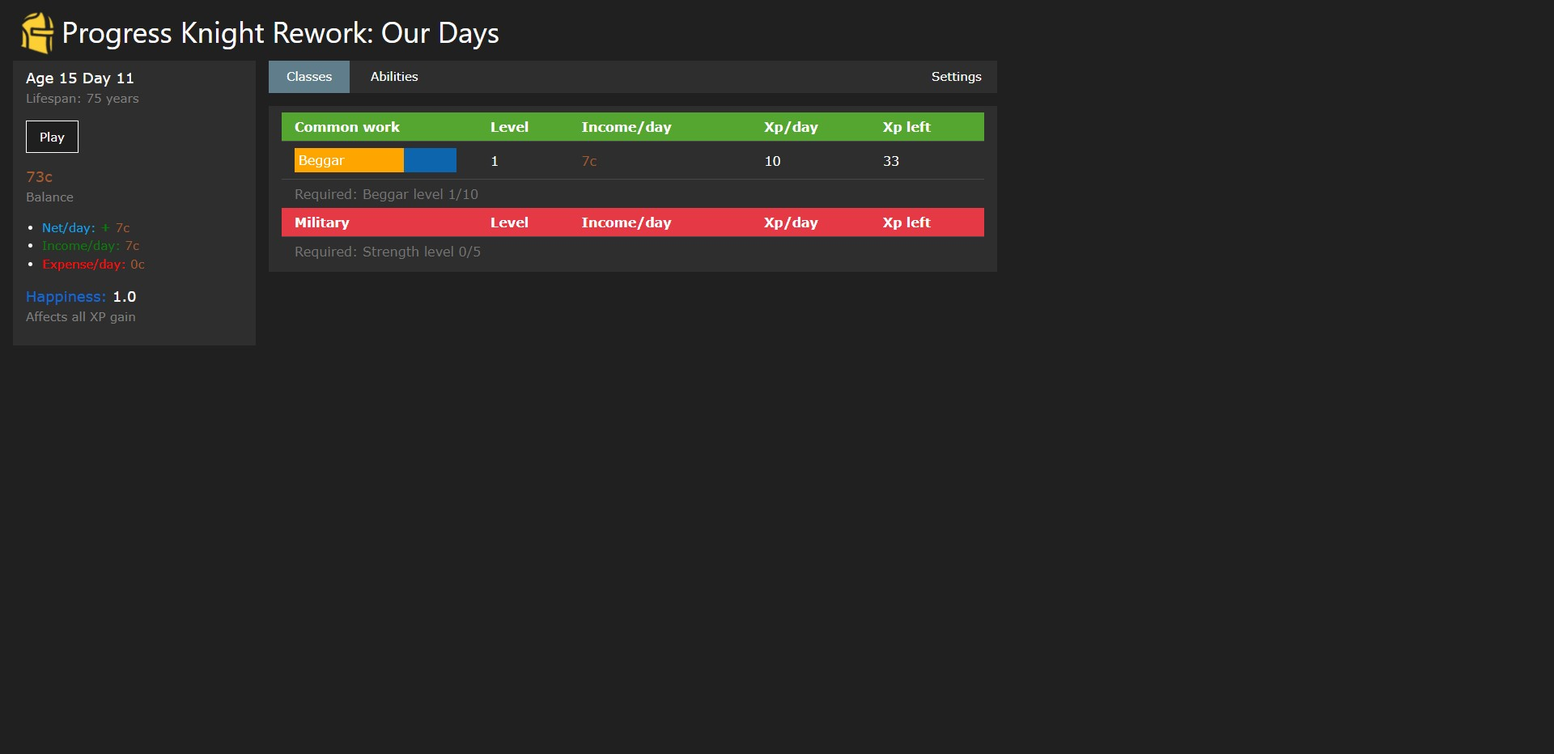
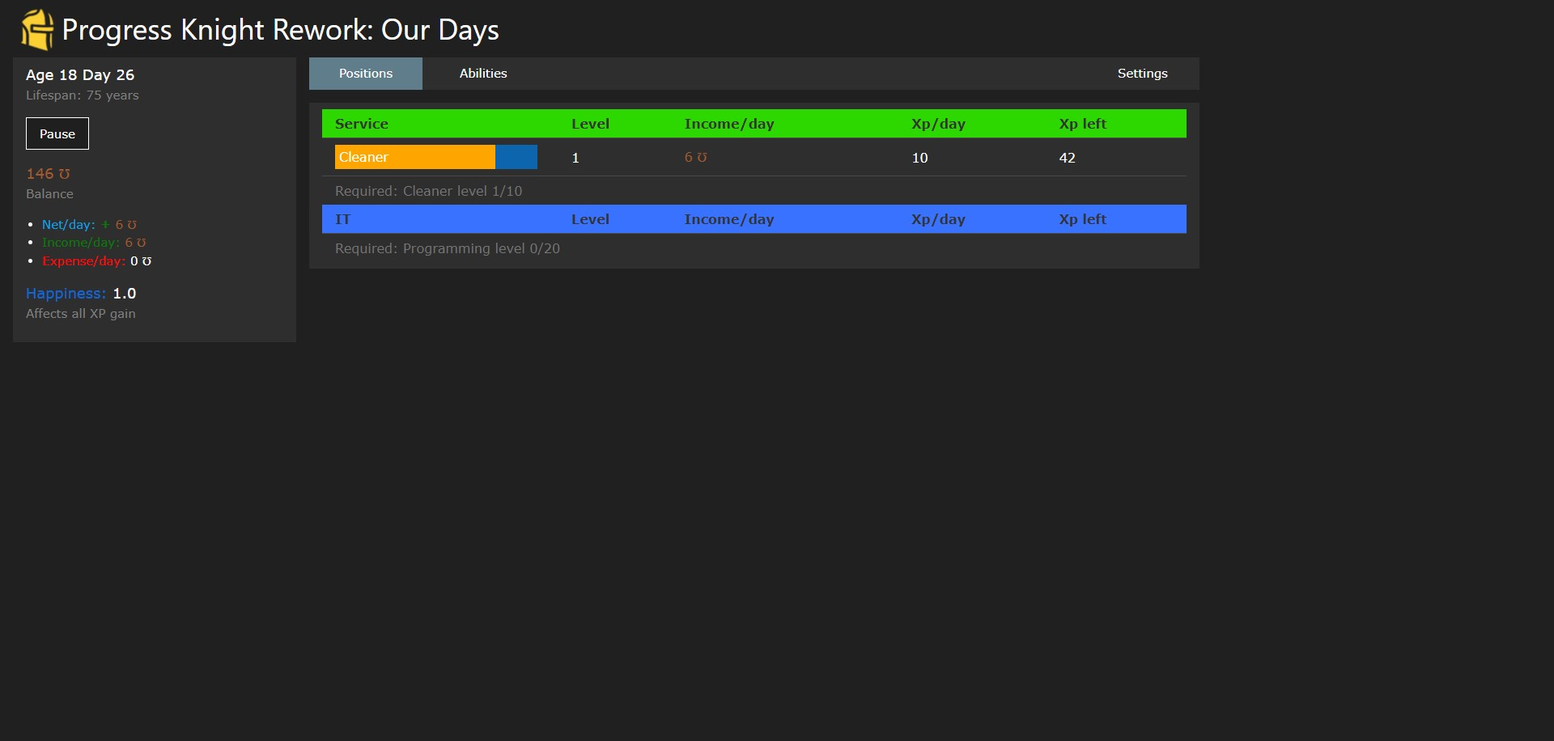
Баланс и контент

diff --git a/progress_knight_project/js/main.js b/progress_knight_project/js/main.js
@@ -45,17 +45,17 @@ const jobBaseData = {
   "Sales intern": {name: "Sales intern", maxXp: 400, income: 17},
   "Experienced salesman": {name: "Experienced salesman", maxXp: 800, income: 33},
   "Manager": {name: "Manager", maxXp: 1600, income: 65},
-  "Chief manager": {name: "Chief manager", maxXp: 3200, income: 65},
-  "Store headmaster": {name: "Store headmaster", maxXp: 6400, income: 129},
+  "Chief manager": {name: "Chief manager", maxXp: 3200, income: 129},
+  "Store headmaster": {name: "Store headmaster", maxXp: 6400, income: 257},
 
   "Junior": {name: "Junior", maxXp: 500, income: 20},
-  "Middle": {name: "Middle", maxXp: 5000, income: 100},
-  "Middle+": {name: "Middle+", maxXp: 50000, income: 500},
-  "Senior": {name: "Senior", maxXp: 500000, income: 2500},
-  "IT supervisor": {name: "IT supervisor", maxXp: 5000000, income: 12500},
-  "Technical Director": {name: "Technical Director", maxXp: 50000000, income: 62500},
-  "Head of an IT conglomerate": {name: "Head of an IT conglomerate", maxXp: 500000000, income: 312500},
-  "World class guru": {name: "World class guru", maxXp: 5000000000, income: 1562500},
+  "Middle": {name: "Middle", maxXp: 5000, income: 60},
+  "Middle+": {name: "Middle+", maxXp: 50000, income: 180},
+  "Senior": {name: "Senior", maxXp: 500000, income: 540},
+  "IT supervisor": {name: "IT supervisor", maxXp: 5000000, income: 1620},
+  "Technical Director": {name: "Technical Director", maxXp: 50000000, income: 4860},
+  "Head of an IT conglomerate": {name: "Head of an IT conglomerate", maxXp: 500000000, income: 14580},
+  "World class guru": {name: "World class guru", maxXp: 5000000000, income: 43740},
 
   "Student": {name: "Student", maxXp: 100000, income: 100},
   "Scientist naturalist": {name: "Scientist naturalist", maxXp: 1000000, income: 1000},
@@ -69,17 +69,18 @@ const jobBaseData = {
 
 const skillBaseData = {
   "Perception": {name: "Perception", maxXp: 100, effect: 0.01, description: "Abilities XP"},
-  "Endurance": {name: "Endurance", maxXp: 100, effect: 0.01, description: "Positions XP"},
+  "Endurance": {name: "Endurance", maxXp: 100, effect: 0.015, description: "Positions XP"},
   "Stealth": {name: "Stealth", maxXp: 100, effect: -0.01, description: "Reduced expenses"},
+  "Aptitude": {name: "Aptitude", maxXp: 100, effect: 0.01, description: "Positions XP"},
   "Hardening": {name: "Hardening", maxXp: 100, effect: 0.01, description: "Lifespan"},
 
   "Programming": {name: "Programming", maxXp: 100, effect: 0.01, description: "IT payment"},
-  "Attentiveness": {name: "Attentiveness", maxXp: 100, effect: 0.01, description: "IT XP"},
-  "Lang understanding": {name: "Lang understanding", maxXp: 100, effect: 0.01, description: "Programming XP"},
+  "Attentiveness": {name: "Attentiveness", maxXp: 100, effect: 0.02, description: "IT XP"},
+  "Lang understanding": {name: "Lang understanding", maxXp: 100, effect: 0.015, description: "Programming XP"},
   "Luckiness": {name: "Luckiness", maxXp: 100, effect: 0.01, description: "Happiness"},
   "Waiting skill": {name: "Waiting skill", maxXp: 100, effect: 0.01, description: "Gamespeed"},
+  "Interest in knowledge": {name: "Interest in knowledge", maxXp: 100, effect: 0.02, description: "Science XP"},
 
-  "Interest in knowledge": {name: "Interest in knowledge", maxXp: 100, effect: 0.01, description: "Science XP"},
   "Time acceleration": {name: "Time acceleration", maxXp: 100, effect: 0.01, description: "Gamespeed"},
   "Reversal of aging": {name: "Reversal of aging", maxXp: 100, effect: 0.01, description: "Lifespan"},
   "Time machine": {name: "Time machine", maxXp: 100, effect: 0.01, description: "Gamespeed"},
@@ -88,32 +89,37 @@ const skillBaseData = {
   "Corrupted Wish": {name: "Corrupted Wish", maxXp: 100, effect: 0.01, description: "All XP"},
   "Corrupted Body": {name: "Corrupted Body", maxXp: 100, effect: 0.01, description: "Body XP"},
   "Corrupted Mind": {name: "Corrupted Mind", maxXp: 100, effect: 0.01, description: "Mind XP"},
-  "Corrupted Soul": {name: "Corrupted Soul", maxXp: 100, effect: 0.01, description: "Corruption gain"},
+  "Corrupted Soul": {name: "Corrupted Soul", maxXp: 100, effect: 0.02, description: "Corruption gain"},
+  "Corrupted Desire": {name: "Corrupted Desire", maxXp: 100, effect: 0.01, description: "All XP"},
 
   // "Meditation": {name: "Meditation", maxXp: 100, effect: 0.01, description: "Happiness"},
 }
 
 const itemBaseData = {
   "Parents house": {name: "Parents house", expense: 0, effect: 1},
-  "Hostel": {name: "Hostel", expense: 30, effect: 2}, // expense =  25*{effect}^2*(log10({effect}))
-  "3-star hotel room": {name: "3-star hotel room", expense: 100, effect: 3},
-  "5-star hotel room": {name: "5-star hotel room", expense: 430, effect: 5},
-  "Small apartment": {name: "Small apartment", expense: 1400, effect: 8},
-  "Apartment": {name: "Apartment", expense: 4700, effect: 13},
-  "Placeholder1": {name: "Placeholder1", expense: 14500, effect: 21},
-  "Placeholder2": {name: "Placeholder2", expense: 44200, effect: 34},
-  "Placeholder3": {name: "Placeholder3", expense: 131600, effect: 55},
-  "Placeholder4": {name: "Placeholder4", expense: 386000, effect: 89},
-  "Placeholder5": {name: "Placeholder5", expense: 1120000, effect: 144},
-  "Placeholder6": {name: "Placeholder6", expense: 3200000, effect: 233},
+  "Hostel": {name: "Hostel", expense: 40, effect: 2}, // expense ~ 33^(1.01^(effect/10))*(effect)^2*(log10(effect))
+  "3-star hotel room": {name: "3-star hotel room", expense: 143, effect: 3},
+  "5-star hotel room": {name: "5-star hotel room", expense: 586, effect: 5},
+  "Small apartment": {name: "Small apartment", expense: 1961, effect: 8},
+  "Apartment": {name: "Apartment", expense: 6501, effect: 13},
+  "Placeholder1": {name: "Placeholder1", expense: 20716, effect: 21},
+  "Placeholder2": {name: "Placeholder2", expense: 65892, effect: 34},
+  "Placeholder3": {name: "Placeholder3", expense: 211494, effect: 55},
+  "Placeholder4": {name: "Placeholder4", expense: 704374, effect: 89},
+  "Placeholder5": {name: "Placeholder5", expense: 2531063, effect: 144},
+  "Placeholder6": {name: "Placeholder6", expense: 10560928, effect: 233},
+  "Placeholder7": {name: "Placeholder7", expense: 59346144, effect: 377},
 
-  "Gym membership": {name: "Gym membership", expense: 5, effect: 2, description: "Body XP"},
-  "Library card": {name: "Library card", expense: 15, effect: 2, description: "Mind XP"},
-  "Laptop": {name: "Laptop", expense: 40, effect: 2, description: "Happiness"},
-  "Car": {name: "Car", expense: 100, effect: 2, description: "Positions XP"},
+  "Gym membership": {name: "Gym membership", expense: 5, effect: 1.5, description: "Body XP"},
+  "Library card": {name: "Library card", expense: 15, effect: 1.5, description: "Mind XP"},
+  "Laptop": {name: "Laptop", expense: 40, effect: 2, description: "IT XP"},
+  "Car": {name: "Car", expense: 100, effect: 1.5, description: "Happiness"},
+  "Miscplaceholder7": {name: "Miscplaceholder7", expense: 450, effect: 2, description: "Positions XP"},
   "Personal assistant": {name: "Personal assistant", expense: 600, effect: 2, description: "Abilities XP"},
+  "Professional mentor": {name: "Professional mentor", expense: 1000, effect: 2, description: "Programming XP"},
+  "Miscplaceholder6": {name: "Miscplaceholder6", expense: 7000, effect: 2, description: "Mind XP"},
   "Miscplaceholder1": {name: "Miscplaceholder1", expense: 20000, effect: 3, description: "Positions XP"},
-  "Miscplaceholder2": {name: "Miscplaceholder2", expense: 100000, effect: 3, description: "Happiness"},
+  "Miscplaceholder2": {name: "Miscplaceholder2", expense: 100000, effect: 1.5, description: "Happiness"},
   "Miscplaceholder3": {name: "Miscplaceholder3", expense: 800000, effect: 3, description: "Technologies XP"},
   "Miscplaceholder4": {name: "Miscplaceholder4", expense: 4000000, effect: 10, description: "Body & Mind XP"},
   "Miscplaceholder5": {name: "Miscplaceholder5", expense: 100000000, effect: 3, description: "Positions XP"},
@@ -126,15 +132,15 @@ const jobCategories = {
 }
 
 const skillCategories = {
-  "Occultism": ["Corrupted Wish", "Corrupted Body", "Corrupted Mind", "Corrupted Soul"],
-  "Body": ["Perception", "Endurance", "Stealth", "Hardening"],
-  "Mind": ["Programming", "Attentiveness", "Lang understanding", "Luckiness", "Waiting skill"],
-  "Technology": ["Interest in knowledge", "Time acceleration", "Reversal of aging", "Time machine", "Deep tech understanding"],
+  "Occultism": ["Corrupted Wish", "Corrupted Body", "Corrupted Mind", "Corrupted Soul", "Corrupted Desire"],
+  "Body": ["Perception", "Endurance", "Stealth", "Aptitude", "Hardening"],
+  "Mind": ["Programming", "Attentiveness", "Lang understanding", "Luckiness", "Waiting skill", "Interest in knowledge"],
+  "Technology": ["Time acceleration", "Reversal of aging", "Time machine", "Deep tech understanding"],
 }
 
 const itemCategories = {
-  "Properties": ["Parents house", "Hostel", "3-star hotel room", "5-star hotel room", "Small apartment", "Apartment", "Placeholder1", "Placeholder2", "Placeholder3", "Placeholder4", "Placeholder5", "Placeholder6"],
-  "Misc": ["Gym membership", "Library card", "Laptop", "Car", "Personal assistant", "Miscplaceholder1", "Miscplaceholder2", "Miscplaceholder3", "Miscplaceholder4", "Miscplaceholder5"]
+  "Properties": ["Parents house", "Hostel", "3-star hotel room", "5-star hotel room", "Small apartment", "Apartment", "Placeholder1", "Placeholder2", "Placeholder3", "Placeholder4", "Placeholder5", "Placeholder6", "Placeholder7"],
+  "Misc": ["Gym membership", "Library card", "Laptop", "Car", "Miscplaceholder7", "Personal assistant", "Professional mentor", "Miscplaceholder6", "Miscplaceholder1", "Miscplaceholder2", "Miscplaceholder3", "Miscplaceholder4", "Miscplaceholder5"]
 }
 
 const headerRowColors = {
@@ -190,12 +196,14 @@ function addMultipliers() {
     task.xpMultipliers.push(task.getMaxLevelMultiplier.bind(task))
     task.xpMultipliers.push(getHappiness)
     task.xpMultipliers.push(getBindedTaskEffect("Corrupted Wish"))
+    task.xpMultipliers.push(getBindedTaskEffect("Corrupted Desire"))
 
     if (task instanceof Job) {
       task.incomeMultipliers.push(task.getLevelMultiplier.bind(task))
-      task.xpMultipliers.push(getBindedItemEffect("Car"))
       task.xpMultipliers.push(getBindedTaskEffect("Endurance"))
+      task.xpMultipliers.push(getBindedTaskEffect("Aptitude"))
       task.xpMultipliers.push(getBindedItemEffect("Miscplaceholder5"))
+      task.xpMultipliers.push(getBindedItemEffect("Miscplaceholder7"))
       task.xpMultipliers.push(getBindedItemEffect("Miscplaceholder1"))
     } else if (task instanceof Skill) {
       task.xpMultipliers.push(getBindedTaskEffect("Perception"))
@@ -203,6 +211,7 @@ function addMultipliers() {
     }
 
     if (jobCategories["IT"].includes(task.name)) {
+      task.xpMultipliers.push(getBindedItemEffect("Laptop"))
       task.xpMultipliers.push(getBindedTaskEffect("Attentiveness"))
       task.incomeMultipliers.push(getBindedTaskEffect("Programming"))
     } else if (jobCategories["Science"].includes(task.name)) {
@@ -214,6 +223,7 @@ function addMultipliers() {
     } else if (skillCategories["Mind"].includes(task.name)) {
       task.xpMultipliers.push(getBindedTaskEffect("Corrupted Mind"))
       task.xpMultipliers.push(getBindedItemEffect("Miscplaceholder4"))
+      task.xpMultipliers.push(getBindedItemEffect("Miscplaceholder6"))
       task.xpMultipliers.push(getBindedItemEffect("Library card"))
     } else if (skillCategories["Technology"].includes(task.name)) {
       task.xpMultipliers.push(getBindedItemEffect("Miscplaceholder3"))
@@ -223,6 +233,7 @@ function addMultipliers() {
 
     if (task.name == "Programming") {
       task.xpMultipliers.push(getBindedTaskEffect("Lang understanding"))
+      task.xpMultipliers.push(getBindedItemEffect("Professional mentor"))
     }
   }
 
@@ -236,7 +247,7 @@ function addMultipliers() {
 function setCustomEffects() {
   var stealth = gameData.taskData["Stealth"]
   stealth.getEffect = function() {
-    var multiplier = Math.pow(1 - getBaseLog(100, stealth.level + 1) / 10, 1.001)
+    var multiplier = Math.pow(1 - getBaseLog(80, stealth.level + 1) / 9, 1.001)
     if (multiplier < 0.1) {multiplier = 0.1}
     return multiplier
   }
@@ -249,7 +260,7 @@ function setCustomEffects() {
 
   var hardening = gameData.taskData["Hardening"]
   hardening.getEffect = function() {
-    var multiplier = 1 + getBaseLog(15000, (hardening.level + 2) / 2)
+    var multiplier = 1 + getBaseLog(2000, (hardening.level + 2) / 2)
     return multiplier
   }
 
@@ -262,7 +273,7 @@ function setCustomEffects() {
 
   var agingReversal = gameData.taskData["Reversal of aging"]
   agingReversal.getEffect = function() {
-    var multiplier = (1 + getBaseLog(10, agingReversal.level + 1)) * techUnderstanding.getEffect()
+    var multiplier = (1 + getBaseLog(1000, agingReversal.level + 1)) * techUnderstanding.getEffect()
     return multiplier
   }
 
@@ -275,9 +286,9 @@ function setCustomEffects() {
 
 function getHappiness() {
   var luckinessEffect = getBindedTaskEffect("Luckiness")
-  var laptopEffect = getBindedItemEffect("Laptop")
+  var carEffect = getBindedItemEffect("Car")
   var misceffect2 = getBindedItemEffect("Miscplaceholder2")
-  var happiness = luckinessEffect() * laptopEffect() * misceffect2() * gameData.currentProperty.getEffect()
+  var happiness = luckinessEffect() * carEffect() * misceffect2() * gameData.currentProperty.getEffect()
   return happiness
 }
 
@@ -843,7 +854,7 @@ function formatCoins(coins, element) {
     }
   }
   var text = Math.floor(coins)
-  element.children[0].textContent = format(String(text),1) + " ℧"
+  element.children[0].textContent = format(String(text),2) + " ℧"
 }
 
 function getTaskElement(taskName) {
@@ -1151,8 +1162,8 @@ gameData.currentMisc = []
 
 gameData.requirements = {
   //Other
-  "Science": new TaskRequirement(getElementsByClass("Science"), [{task: "Interest in knowledge", requirement: 1}]),
-  "Technology": new TaskRequirement(getElementsByClass("Technology"), [{task: "Lang understanding", requirement: 1}]),
+  "Science": new TaskRequirement(getElementsByClass("Science"), [{task: "Interest in knowledge", requirement: 10}]),
+  "Technology": new TaskRequirement(getElementsByClass("Technology"), [{task: "Interest in knowledge", requirement: 100}]),
   "Occultism": new CorruptionRequirement(getElementsByClass("Occultism"), [{requirement: 1}]),
   "Shop": new CoinRequirement([document.getElementById("shopTabButton")], [{requirement: gameData.itemData["Hostel"].getExpense() * 50}]),
   "Rebirth tab": new AgeRequirement([document.getElementById("rebirthTabButton")], [{requirement: 25}]),
@@ -1182,20 +1193,20 @@ gameData.requirements = {
 
   //IT
   "Junior": new TaskRequirement([getTaskElement("Junior")], [{task: "Programming", requirement: 20}]),
-  "Middle": new TaskRequirement([getTaskElement("Middle")], [{task: "Junior", requirement: 10}, {task: "Programming", requirement: 40}]),
-  "Middle+": new TaskRequirement([getTaskElement("Middle+")], [{task: "Middle", requirement: 10}, {task: "Programming", requirement: 60}]),
-  "Senior": new TaskRequirement([getTaskElement("Senior")], [{task: "Middle+", requirement: 10}, {task: "Programming", requirement: 80}, {task: "Lang understanding", requirement: 40}]),
-  "IT supervisor": new TaskRequirement([getTaskElement("IT supervisor")], [{task: "Senior", requirement: 10}, {task: "Attentiveness", requirement: 150}]),
-  "Technical Director": new TaskRequirement([getTaskElement("Technical Director")], [{task: "IT supervisor", requirement: 10}, {task: "Programming", requirement: 250}, {task: "Perception", requirement: 250}]),
+  "Middle": new TaskRequirement([getTaskElement("Middle")], [{task: "Junior", requirement: 10}, {task: "Programming", requirement: 60}]),
+  "Middle+": new TaskRequirement([getTaskElement("Middle+")], [{task: "Middle", requirement: 10}, {task: "Programming", requirement: 100}]),
+  "Senior": new TaskRequirement([getTaskElement("Senior")], [{task: "Middle+", requirement: 10}, {task: "Programming", requirement: 200}, {task: "Lang understanding", requirement: 40}]),
+  "IT supervisor": new TaskRequirement([getTaskElement("IT supervisor")], [{task: "Senior", requirement: 10}, {task: "Attentiveness", requirement: 250}]),
+  "Technical Director": new TaskRequirement([getTaskElement("Technical Director")], [{task: "IT supervisor", requirement: 10}, {task: "Programming", requirement: 500}, {task: "Perception", requirement: 450}]),
   "Head of an IT conglomerate": new TaskRequirement([getTaskElement("Head of an IT conglomerate")], [{task: "Technical Director", requirement: 10}, {task: "Interest in knowledge", requirement: 500}, {task: "Attentiveness", requirement: 400}]),
   "World class guru": new TaskRequirement([getTaskElement("World class guru")], [{task: "Head of an IT conglomerate", requirement: 10}, {task: "Interest in knowledge", requirement: 1000}]),
 
   // Science
-  "Student": new TaskRequirement([getTaskElement("Student")], [{task: "Interest in knowledge", requirement: 1}]),
+  "Student": new TaskRequirement([getTaskElement("Student")], [{task: "Interest in knowledge", requirement: 10}]),
   "Scientist naturalist": new TaskRequirement([getTaskElement("Scientist naturalist")], [{task: "Student", requirement: 10}, {task: "Interest in knowledge", requirement: 200}]),
   "Expert naturalist": new TaskRequirement([getTaskElement("Expert naturalist")], [{task: "Scientist naturalist", requirement: 10}, {task: "Interest in knowledge", requirement: 500}, {task: "Perception", requirement: 500}]),
   "Theoretical physicist": new TaskRequirement([getTaskElement("Theoretical physicist")], [{task: "Expert naturalist", requirement: 10}, {task: "Interest in knowledge", requirement: 800}]),
-  "Inventor": new TaskRequirement([getTaskElement("Inventor")], [{task: "Theoretical physicist", requirement: 50}, {task: "Interest in knowledge", requirement: 1200}]),
+  "Inventor": new TaskRequirement([getTaskElement("Inventor")], [{task: "Theoretical physicist", requirement: 50}, {task: "Interest in knowledge", requirement: 1050}]),
   "Quantum engineer": new TaskRequirement([getTaskElement("Quantum engineer")], [{task: "Inventor", requirement: 100}, {task: "Interest in knowledge", requirement: 1500}]),
   "Science revolutioneer": new TaskRequirement([getTaskElement("Science revolutioneer")], [{task: "Quantum engineer", requirement: 500}, {task: "Interest in knowledge", requirement: 2000}]),
   "Mad scientist": new TaskRequirement([getTaskElement("Mad scientist")], [{task: "Science revolutioneer", requirement: 1000}, {task: "Interest in knowledge", requirement: 3000}]),
@@ -1204,6 +1215,7 @@ gameData.requirements = {
   "Perception": new TaskRequirement([getTaskElement("Perception")], []),
   "Endurance": new TaskRequirement([getTaskElement("Endurance")], [{task: "Perception", requirement: 10}]),
   "Stealth": new TaskRequirement([getTaskElement("Stealth")], [{task: "Perception", requirement: 30}]),
+  "Aptitude": new TaskRequirement([getTaskElement("Aptitude")], [{task: "Endurance", requirement: 100}]),
   "Hardening": new TaskRequirement([getTaskElement("Hardening")], [{task: "Endurance", requirement: 300}, {task: "Scientist naturalist", requirement: 10}]),
 
   "Programming": new TaskRequirement([getTaskElement("Programming")], [{task: "Perception", requirement: 10}]),
@@ -1211,8 +1223,8 @@ gameData.requirements = {
   "Lang understanding": new TaskRequirement([getTaskElement("Lang understanding")], [{task: "Programming", requirement: 50}]),
   "Luckiness": new TaskRequirement([getTaskElement("Luckiness")], [{task: "Perception", requirement: 80}]),
   "Waiting skill": new TaskRequirement([getTaskElement("Waiting skill")], [{task: "Perception", requirement: 200}, {task: "Endurance", requirement: 200}]),
-
   "Interest in knowledge": new TaskRequirement([getTaskElement("Interest in knowledge")], [{task: "Lang understanding", requirement: 250}]),
+
   "Time acceleration": new TaskRequirement([getTaskElement("Time acceleration")], [{task: "Theoretical physicist", requirement: 25}]),
   "Reversal of aging": new TaskRequirement([getTaskElement("Reversal of aging")], [{task: "Inventor", requirement: 30}]),
   "Time machine": new TaskRequirement([getTaskElement("Time machine")], [{task: "Quantum engineer", requirement: 100}]),
@@ -1223,6 +1235,7 @@ gameData.requirements = {
   "Corrupted Mind": new CorruptionRequirement([getTaskElement("Corrupted Mind")], [{requirement: 1}]),
   "Corrupted Soul": new CorruptionRequirement([getTaskElement("Corrupted Soul")], [{requirement: 1}]),
   "Corrupted Wish": new CorruptionRequirement([getTaskElement("Corrupted Wish")], [{requirement: 1}]),
+  "Corrupted Desire": new CorruptionRequirement([getTaskElement("Corrupted Desire")], [{requirement: 20}]),
 
   //Properties
   "Parents house": new CoinRequirement([getItemElement("Parents house")], [{requirement: 0}]),
@@ -1237,18 +1250,22 @@ gameData.requirements = {
   "Placeholder4": new CoinRequirement([getItemElement("Placeholder4")], [{requirement: gameData.itemData["Placeholder4"].getExpense() * 100}]),
   "Placeholder5": new CoinRequirement([getItemElement("Placeholder5")], [{requirement: gameData.itemData["Placeholder5"].getExpense() * 100}]),
   "Placeholder6": new CoinRequirement([getItemElement("Placeholder6")], [{requirement: gameData.itemData["Placeholder6"].getExpense() * 100}]),
+  "Placeholder7": new CoinRequirement([getItemElement("Placeholder7")], [{requirement: gameData.itemData["Placeholder7"].getExpense() * 100}]),
 
   //Misc
   "Library card": new CoinRequirement([getItemElement("Library card")], [{requirement: 0}]),
-  "Gym membership": new CoinRequirement([getItemElement("Gym membership")], [{requirement: gameData.itemData["Gym membership"].getExpense() * 100}]),
+  "Gym membership": new CoinRequirement([getItemElement("Gym membership")], [{requirement: 0}]),
   "Laptop": new CoinRequirement([getItemElement("Laptop")], [{requirement: gameData.itemData["Laptop"].getExpense() * 100}]),
   "Car": new CoinRequirement([getItemElement("Car")], [{requirement: gameData.itemData["Car"].getExpense() * 100}]),
   "Personal assistant": new CoinRequirement([getItemElement("Personal assistant")], [{requirement: gameData.itemData["Personal assistant"].getExpense() * 100}]),
+  "Professional mentor": new CoinRequirement([getItemElement("Professional mentor")], [{requirement: gameData.itemData["Professional mentor"].getExpense() * 100}]),
   "Miscplaceholder1": new CoinRequirement([getItemElement("Miscplaceholder1")], [{requirement: gameData.itemData["Miscplaceholder1"].getExpense() * 100}]),
   "Miscplaceholder2": new CoinRequirement([getItemElement("Miscplaceholder2")], [{requirement: gameData.itemData["Miscplaceholder2"].getExpense() * 100}]),
   "Miscplaceholder3": new CoinRequirement([getItemElement("Miscplaceholder3")], [{requirement: gameData.itemData["Miscplaceholder3"].getExpense() * 100}]),
   "Miscplaceholder4": new CoinRequirement([getItemElement("Miscplaceholder4")], [{requirement: gameData.itemData["Miscplaceholder4"].getExpense() * 100}]),
   "Miscplaceholder5": new CoinRequirement([getItemElement("Miscplaceholder5")], [{requirement: gameData.itemData["Miscplaceholder5"].getExpense() * 100}]),
+  "Miscplaceholder6": new CoinRequirement([getItemElement("Miscplaceholder6")], [{requirement: gameData.itemData["Miscplaceholder6"].getExpense() * 100}]),
+  "Miscplaceholder7": new CoinRequirement([getItemElement("Miscplaceholder7")], [{requirement: gameData.itemData["Miscplaceholder7"].getExpense() * 100}]),
 }
 
 tempData["requirements"] = {}

diff --git a/progress_knight_project/index.html b/progress_knight_project/index.html
@@ -77,7 +77,7 @@
                             <div class="progress-fill progressFill" style="background-color:rgb(225, 165, 0)"></div>
                             <div class="progress-text name">Task</div>
                         </div>
-                        <div class="sidebar-element" style="color: gray">Current class</div>
+                        <div class="sidebar-element" style="color: gray">Current position</div>
 
                         <div style="width: 300px" class="small-margin skill progress-bar progressBar">
                             <div class="progress-fill progressFill" style="background-color:rgb(225, 165, 0)"></div>
@@ -113,7 +113,7 @@
                     -->
 
                     <span id="timeWarping">
-                        <div style="font-size: large"><span style="color: rgb(204, 34, 219)">Time Warping: </span><span id="timeWarpingDisplay"></span></div>
+                        <div style="font-size: large"><span style="color: rgb(204, 34, 219)">Gamespeed: </span><span id="timeWarpingDisplay"></span></div>
                         <div style="color: gray">Affects game speed</div>
                         <div style="color: red">Abilities can increase its multiplier</div>
                         <button id="timeWarpingButton" class="w3-button button sidebar-element" style="margin-top: 5px; width:150px" onClick="setTimeWarping()">Enable warp</button>
@@ -214,7 +214,7 @@
                                         <span></span>
 
                                     </span>
-                                    <span style="color: rgb(200, 0, 0)" class="corruption"></span>
+                                    <span style="color: rgb(160, 0, 200)" class="corruption"></span>
                                     <span style="color: rgb(24, 210, 217)" class="innerExp"></span>
                                 </span>
                             </td>
@@ -254,9 +254,9 @@
                                     </div>
                                     <i style="color: grey">
                                       By pressing the green button, you will be reborn and you will have to start life anew, having lost all your levels and money.
-                                      However, you will receive <b>experience multipliers</b> for your positions and abilities, equivalent to: <b>(1 + max position or ability level / 10)<sup>1.001</sup></b>.
+                                      However, you will receive <b>experience multipliers</b> for your positions and abilities, equivalent to: <b>(1 + max position or ability level / 10)<sup>1.01</sup></b>.
                                       This means that you will learn everything again much faster than in a past life.
-                                      <br><span style="color: rgb(200, 0, 0)">Something suggests that the window on the screen may change if you wait another <b>about two hundred years</b>...</span>
+                                      <br><span style="color: rgb(200, 0, 0)">Something suggests that the window on the screen may change if you wait for <b>about two hundred years</b>...</span>
                                     </i>
                                     </br>
                                     <button class="w3-button button" style="margin-bottom: 8px; margin-top: 8px" onClick="rebirthOne()">Press green button</button>
@@ -264,8 +264,8 @@
                                 </li>
                                 <li style="margin: 8px;" id="rebirthNote3">
                                     <div style="margin-bottom: 8px;">
-                                      Your gut instinct was correct. The moment you turn 200, you hear an ominous buzz coming from your phone.
-                                      The image on the screen shakes and distorts, and then you hear a whisper: "So, you've come this far ... You achieve significant power, I see ... Are you ready to go further?".
+                                      Your gut instinct was correct. The moment you turn 250, you hear an ominous buzz coming from your phone.
+                                      The image on the screen shakes and distorts, and then you hear a whisper: "So, you've come this far ... You achieve significant knowledge, I see ... Are you ready to go further?".
                                       After that, a yellow button appears on the screen.
                                     </div>
                                     <i style="color: rgb(160, 0, 200)">

diff --git a/progress_knight_project/js/classes.js b/progress_knight_project/js/classes.js
@@ -20,7 +20,7 @@ class Task {
     }
 
     getMaxLevelMultiplier() {
-        var maxLevelMultiplier = Math.pow(1 + this.maxLevel / 10, 1.001)
+        var maxLevelMultiplier = 1 + this.maxLevel / 10
         return maxLevelMultiplier
     }
 
@@ -64,7 +64,7 @@ class Skill extends Task {
     }
 
     getEffect() {
-        var effect = this.level > 200 ? 1 + Math.log10((this.level + 1) / 2) * this.baseData.effect * 100 : Math.pow(1 + this.baseData.effect * this.level, 1.001)
+        var effect = this.level > 1000 ? 1 + Math.log10(this.level) * this.baseData.effect * 1000 / 3 : 1 + this.baseData.effect * this.level
         return effect
     }
 
